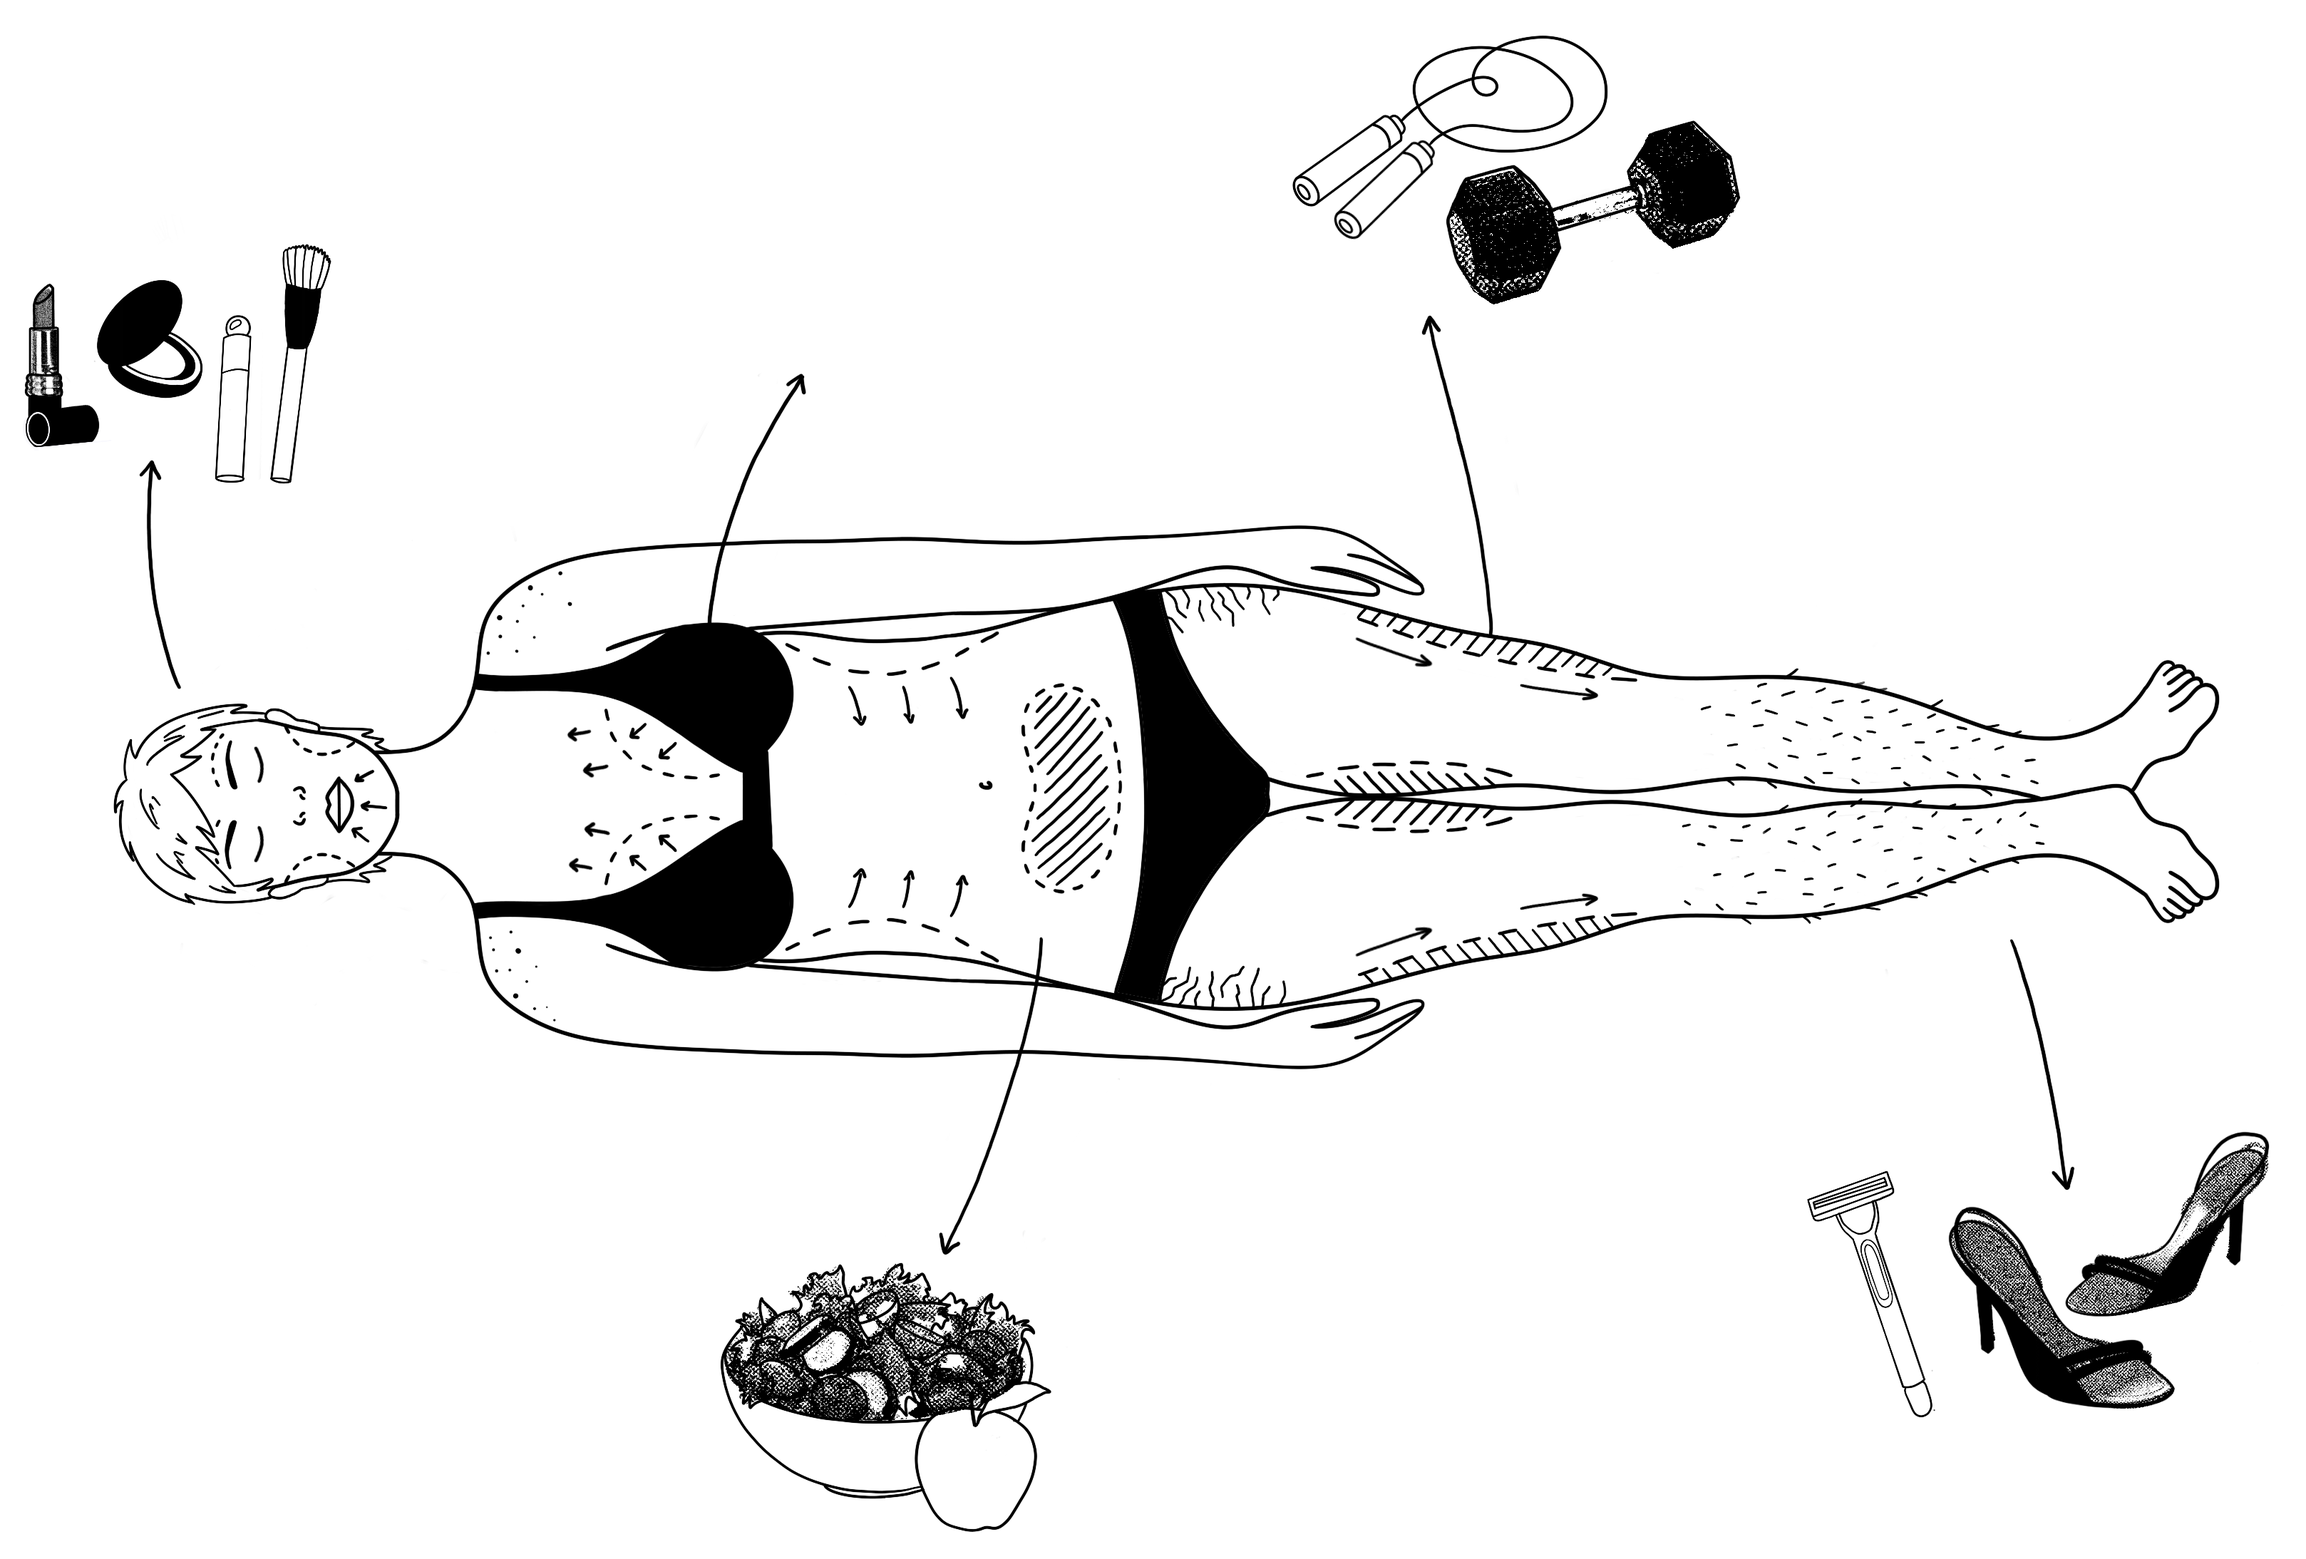
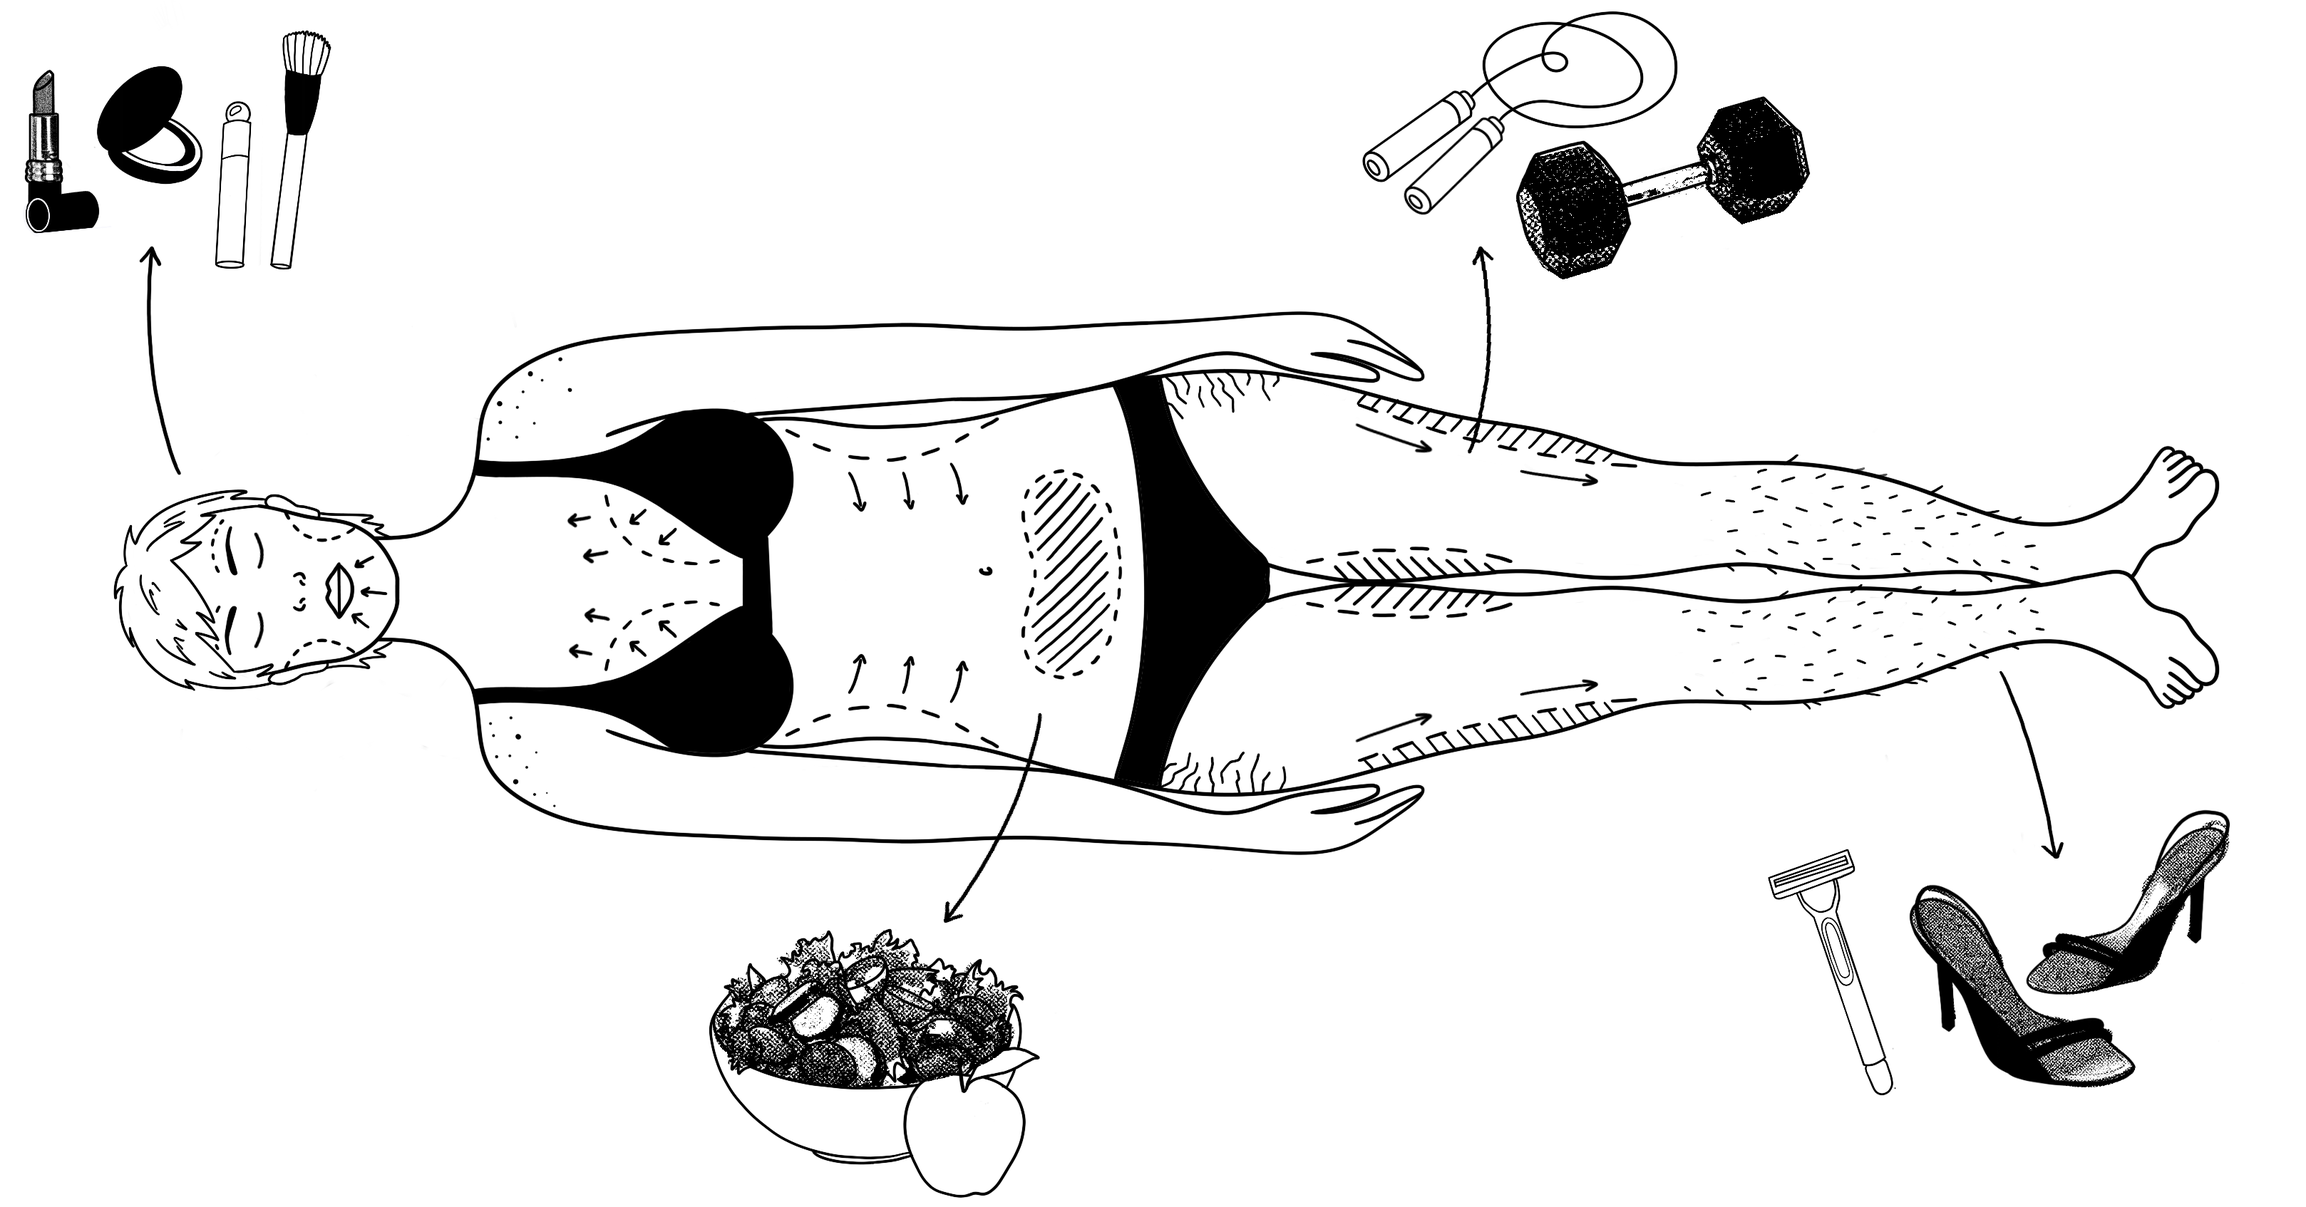
Corpo perfeito funcional

diff --git a/CSS/index.css b/CSS/index.css
@@ -109,7 +109,8 @@ main article {
 }
 
 .maria_text {
-    grid-column: 5 / span 8;
+    grid-column: 4 / span 8;
+    text-align: center;
 }
 
 .maria_item img {
@@ -215,16 +216,106 @@ main article {
     opacity: 1;
 }
 
+
+
+
 /* CORPO PERFEITO ------------------------------------------ */
 #corpo_perfeito {
     grid-column: 1 / -1;
 }
 
+.label {
+    text-align: center;
+    margin-top: 8px;
+    color: #DE71AA;
+    position: relative;
+    opacity: 0;
+}
+
+.label.cabelo {
+    grid-column: 3 / 4;
+    bottom: 28vh;
+    right: 2vh
+}
+
+.label.ombro {
+    grid-column: 5 / 6;
+    bottom: 20vh;
+    right: 8vh
+}
+
+.label.mama {
+    grid-column: 6 / 7;
+    bottom: 65vh;
+    right: 7vh
+}
+
+.label.anca {
+    grid-column: 8 / 9;
+    bottom: 20vh;
+}
+
+.label.perna {
+    grid-column: 11 / 12;
+    bottom: 55vh;
+    left: 4vh
+}
+
 #corpo_perfeito img {
     grid-column: 1 / -1;
-    grid-row: 3;
-    width: 70%;
+    grid-row: 2 / span 3;
+    width: 80%;
     margin: 0 auto;
     height: auto;
     display: block;
+    align-self: end;
+    padding-top: 15vh;
 }
+
+.circulo {
+    width: 3vh;
+    height: 3vh;
+    background-color: #DE71AA;
+    border-radius: 50%;
+    filter: blur(0.3vh);
+    position: relative;
+}
+
+.circulo:hover {
+    cursor: pointer;
+}
+
+.circulo.cabelo {
+    grid-column: 1 / 2;
+    left: 26vh;
+    top: 57vh;
+}
+
+.circulo.ombro {
+    left: 36vh;
+    top: 65vh;
+}
+
+.circulo.mama {
+    left: 36vh;
+    top: 42vh;
+}
+
+.circulo.anca {
+    left: 55vh;
+    top: 64vh;
+}
+
+.circulo.perna {
+    left: 82vh;
+    top: 46vh;
+}
+
+.circulo.cabelo:hover ~ .label.cabelo,
+.circulo.ombro:hover ~ .label.ombro,
+.circulo.mama:hover~.label.mama,
+.circulo.anca:hover~.label.anca,
+.circulo.perna:hover~.label.perna {
+    opacity: 1;
+}
+

diff --git a/index.html b/index.html
@@ -172,8 +172,27 @@
                 </section>
             </article>
 
+
+            <!-- CORPO PERFEITO ------------------------------------------------------>
             <article id="corpo_perfeito">
+                <div class="circulo cabelo" class="circulo"></div>
+                <div class="circulo ombro" class="circulo"></div>
+                <div class="circulo mama" class="circulo"></div>
+                <div class="circulo anca" class="circulo"></div>
+                <div class="circulo perna" class="circulo"></div>
                 <img src="IMAGES/corpo_perfeito.png" alt="O Corpo Perfeito">
+            
+                <p class="legenda bold italic label cabelo">Esse corte não te favorece</p>
+                <p class="legenda bold italic label ombro">Devias ter mais atenção ao acne</p>
+                <p class="legenda bold italic label mama">Devias considerar uma cirurgia plástica</p>
+                <p class="legenda bold italic label anca">Não andes com isso à mostra</p>
+                <p class="legenda bold italic label perna">Com esses pelos nenhum homem te quer</p>
+            </article>
+
+
+            <!-- NOTICIAS ------------------------------------------------------>
+            <article id="noticias">
+
             </article>
         </main>
     </div>
